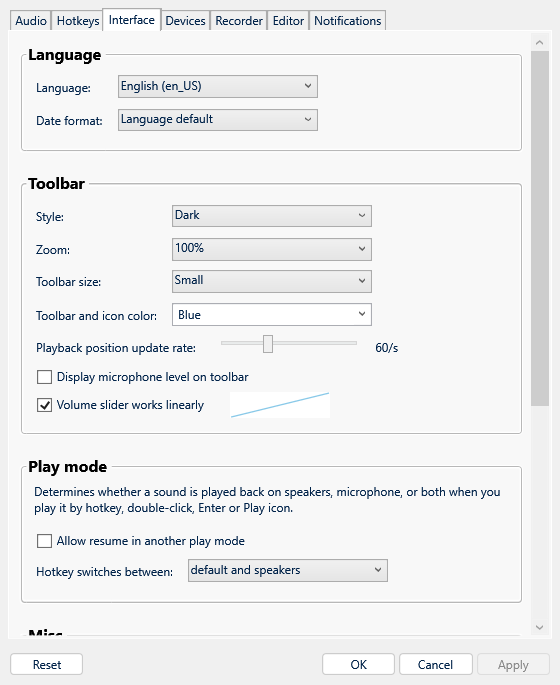
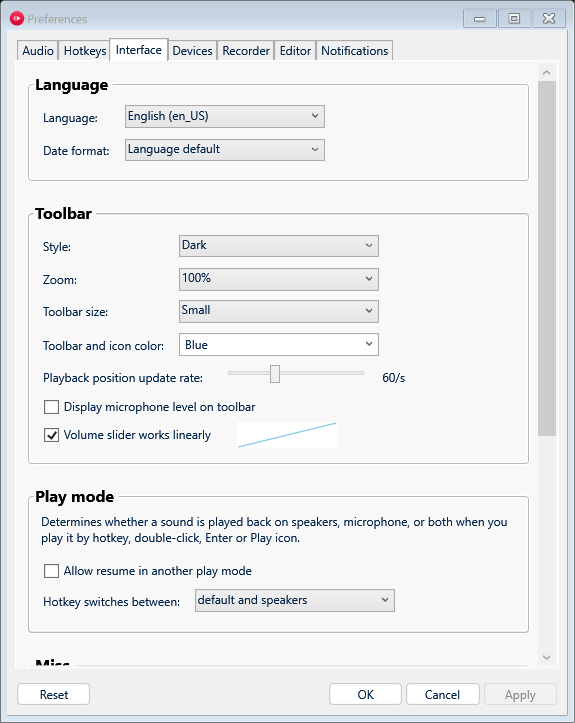
Refresh documentation screenshots with native window title bars

Changed region(s): [[0.0, 0.0, 1.0, 1.0], [0.6679, 0.4905, 0.6982, 0.5518]]

diff --git a/tools/screenshots/NativeWindowFrame.cs b/tools/screenshots/NativeWindowFrame.cs
@@ -1,0 +1,72 @@
+using System.ComponentModel;
+using System.IO;
+using System.Runtime.InteropServices;
+using System.Windows;
+using System.Windows.Media;
+using System.Windows.Media.Imaging;
+
+// Paint native chrome on a hidden HWND with the app window's caption/style.
+// Keeping this HWND separate avoids altering WPF layout while taking a picture.
+internal static class NativeWindowFrame
+{
+    [StructLayout(LayoutKind.Sequential)]private struct Rect {public int Left,Top,Right,Bottom;}
+    [StructLayout(LayoutKind.Sequential)]private struct Point {public int X,Y;}
+    [StructLayout(LayoutKind.Sequential)]private struct BitmapInfo
+    {
+        public uint Size;public int Width,Height;public ushort Planes,BitCount;
+        public uint Compression,ImageSize;public int XPelsPerMeter,YPelsPerMeter;public uint ColorsUsed,ColorsImportant;
+    }
+    internal sealed record Frame(BitmapSource Image,System.Windows.Rect Client);
+    [DllImport("user32.dll")]private static extern uint GetDpiForWindow(nint window);
+    [DllImport("user32.dll",CharSet=CharSet.Unicode,SetLastError=true)]private static extern nint CreateWindowEx(uint extendedStyle,string className,string title,uint style,int x,int y,int width,int height,nint parent,nint menu,nint instance,nint parameter);
+    [DllImport("user32.dll")]private static extern bool DestroyWindow(nint window);
+    [DllImport("user32.dll",CharSet=CharSet.Unicode)]private static extern nint LoadImage(nint instance,string name,uint type,int width,int height,uint flags);
+    [DllImport("user32.dll")]private static extern bool DestroyIcon(nint icon);
+    [DllImport("user32.dll",SetLastError=true)]private static extern bool AdjustWindowRectExForDpi(ref Rect rect,uint style,bool menu,uint extendedStyle,uint dpi);
+    [DllImport("user32.dll",SetLastError=true)]private static extern bool SetWindowPos(nint window,nint after,int x,int y,int width,int height,uint flags);
+    [DllImport("user32.dll")]private static extern bool GetWindowRect(nint window,out Rect rect);
+    [DllImport("user32.dll")]private static extern bool GetClientRect(nint window,out Rect rect);
+    [DllImport("user32.dll")]private static extern bool ClientToScreen(nint window,ref Point point);
+    [DllImport("user32.dll",CharSet=CharSet.Unicode)]private static extern nint SendMessage(nint window,uint message,nint parameter,nint flags);
+    [DllImport("gdi32.dll")]private static extern nint CreateCompatibleDC(nint dc);
+    [DllImport("gdi32.dll")]private static extern nint CreateDIBSection(nint dc,ref BitmapInfo info,uint usage,out nint pixels,nint section,uint offset);
+    [DllImport("gdi32.dll")]private static extern nint SelectObject(nint dc,nint item);
+    [DllImport("gdi32.dll")]private static extern bool DeleteObject(nint item);
+    [DllImport("gdi32.dll")]private static extern bool DeleteDC(nint dc);
+
+    internal static Frame Capture(Window window,double clientWidth,double clientHeight)
+    {
+        uint style=0x00C80000; // caption and system menu, never WS_VISIBLE
+        if(window.ResizeMode==ResizeMode.CanMinimize)style|=0x20000;
+        else if(window.ResizeMode is ResizeMode.CanResize or ResizeMode.CanResizeWithGrip)style|=0x70000;
+        uint extendedStyle=window.WindowStyle==WindowStyle.ToolWindow?0x80u:0;
+        nint handle=CreateWindowEx(extendedStyle,"STATIC",window.Title,style,-10000,-10000,100,100,0,0,0,0);
+        if(handle==0)throw new Win32Exception();
+        nint icon=0;
+        try{
+        uint dpi=GetDpiForWindow(handle);double scale=dpi/96d;
+        string iconPath=Path.Combine(AppContext.BaseDirectory,"assets","app-icon.ico");
+        if(File.Exists(iconPath)){icon=LoadImage(0,iconPath,1,(int)Math.Round(16*scale),(int)Math.Round(16*scale),0x10);if(icon!=0){SendMessage(handle,0x80,0,icon);SendMessage(handle,0x80,1,icon);}}
+        var requested=new Rect {Right=(int)Math.Round(clientWidth*scale),Bottom=(int)Math.Round(clientHeight*scale)};
+        if(!AdjustWindowRectExForDpi(ref requested,style,false,extendedStyle,dpi))throw new Win32Exception();
+        // NOZORDER | NOACTIVATE, deliberately without SHOWWINDOW.
+        if(!SetWindowPos(handle,0,-10000,-10000,requested.Right-requested.Left,requested.Bottom-requested.Top,0x14))throw new Win32Exception();
+        if(!GetWindowRect(handle,out var bounds)||!GetClientRect(handle,out var client))throw new Win32Exception();
+        var origin=new Point();if(!ClientToScreen(handle,ref origin))throw new Win32Exception();
+        int width=bounds.Right-bounds.Left,height=bounds.Bottom-bounds.Top;
+        nint dc=CreateCompatibleDC(0);if(dc==0)throw new Win32Exception();
+        var info=new BitmapInfo {Size=(uint)Marshal.SizeOf<BitmapInfo>(),Width=width,Height=-height,Planes=1,BitCount=32};
+        nint bitmap=CreateDIBSection(dc,ref info,0,out nint pixels,0,0);if(bitmap==0){DeleteDC(dc);throw new Win32Exception();}
+        nint previous=SelectObject(dc,bitmap);
+        try{
+            // WM_PRINT with PRF_NONCLIENT paints even a hidden window. Calling
+            // PrintWindow on an unshown DWM surface leaves its caption black.
+            SendMessage(handle,0x317,dc,2);
+            var bytes=new byte[checked(width*height*4)];Marshal.Copy(pixels,bytes,0,bytes.Length);
+            for(int index=3;index<bytes.Length;index+=4)bytes[index]=255;
+            var image=BitmapSource.Create(width,height,dpi,dpi,PixelFormats.Bgra32,null,bytes,width*4);image.Freeze();
+            return new(image,new((origin.X-bounds.Left)/scale,(origin.Y-bounds.Top)/scale,client.Right/scale,client.Bottom/scale));
+        }finally{SelectObject(dc,previous);DeleteObject(bitmap);DeleteDC(dc);}
+        }finally{DestroyWindow(handle);if(icon!=0)DestroyIcon(icon);}
+    }
+}

diff --git a/tools/screenshots/Program.cs b/tools/screenshots/Program.cs
@@ -29,9 +29,18 @@ internal static class Program
     {
         var content=(FrameworkElement)window.Content;content.Measure(new Size(width,height));content.Arrange(new Rect(0,0,width,height));content.UpdateLayout();
         await Dispatcher.Yield(DispatcherPriority.ContextIdle);content.Measure(new Size(width,height));content.Arrange(new Rect(0,0,width,height));content.UpdateLayout();
-        var drawing=new DrawingVisual();using(var paint=drawing.RenderOpen()){paint.DrawRectangle(window.Background,null,new Rect(0,0,width,height));}
-        var bitmap=new RenderTargetBitmap((int)width,(int)height,96,96,PixelFormats.Pbgra32);bitmap.Render(drawing);bitmap.Render(content);
+        var background=new DrawingVisual();using(var paint=background.RenderOpen()){paint.DrawRectangle(window.Background,null,new Rect(0,0,width,height));}
+        var client=new RenderTargetBitmap((int)width,(int)height,96,96,PixelFormats.Pbgra32);client.Render(background);client.Render(content);
+        var frame=NativeWindowFrame.Capture(window,width,height);
+        var drawing=new DrawingVisual();using(var paint=drawing.RenderOpen()){
+            paint.DrawImage(frame.Image,new Rect(0,0,frame.Image.Width,frame.Image.Height));
+            // Keep the content pixels aligned at 96 DPI instead of resampling
+            // them for fractional system-frame measurements at desktop DPI.
+            paint.DrawImage(client,new Rect(Math.Round(frame.Client.X),Math.Round(frame.Client.Y),width,height));
+        }
+        var bitmap=new RenderTargetBitmap((int)Math.Ceiling(frame.Image.Width),(int)Math.Ceiling(frame.Image.Height),96,96,PixelFormats.Pbgra32);bitmap.Render(drawing);
         var png=new PngBitmapEncoder();png.Frames.Add(BitmapFrame.Create(bitmap));using var output=File.Create(path);png.Save(output);Console.WriteLine("Captured "+path);
+        if(window.IsVisible||window.IsActive)throw new Exception("Screenshot rendering unexpectedly showed or activated a window.");
     }
     private static async Task Capture(string output)
     {
@@ -52,7 +61,7 @@ internal static class Program
                 if(i<6)library.Document.HotbarPins.Add(new(){SoundId=sound.Id,Page=0,Slot=i,Color=colors[i%4]});
             }
             foreach(var category in library.Document.Categories){category.IconColor=colors[Array.IndexOf(new[]{"Voice","Games","Reactions","Music"},category.Name)%4];}
-            Invoke(main,"RefreshLibrary");await Dispatcher.Yield(DispatcherPriority.Background);Field<DataGrid>(main,"SoundGrid").SelectedIndex=0;
+            library.Save(Path.Combine(state,"Demo library.json"));Invoke(main,"RefreshLibrary");await Dispatcher.Yield(DispatcherPriority.Background);Field<DataGrid>(main,"SoundGrid").SelectedIndex=0;
             await Save(main,Path.Combine(output,"main-window.png"),1020,660);
             Field<FrameworkElement>(main,"SearchPanel").Visibility=Visibility.Visible;
             await Save(main,Path.Combine(output,"search-panel.png"),1020,660);
@@ -82,7 +91,7 @@ internal static class Program
             }
             var editorType=typeof(MainWindow).Assembly.GetType("SoundboardLab.EditorWindow")!;
             var editor=(Window)Activator.CreateInstance(editorType,[library.Document.Entries[0].FilePath,new Func<string,Task>(_=>Task.CompletedTask),prefs.Settings])!;
-            try{await (Task)Invoke(editor,"LoadAsync")!;await Save(editor,Path.Combine(output,"sound-editor.png"),680,410);}finally{editor.Close();}
+            try{await (Task)Invoke(editor,"LoadAsync")!;editor.Title=@"Sound Editor - C:\Soundboard Lab\Sounds\Welcome back.wav";await Save(editor,Path.Combine(output,"sound-editor.png"),680,410);}finally{editor.Close();}
             if(main.IsVisible||main.IsActive)throw new Exception("Screenshot rendering unexpectedly showed a window.");
         }finally{if(main is not null){main.Close();await Dispatcher.Yield(DispatcherPriority.Background);}Directory.Delete(state,true);}
     }

diff --git a/VALIDATION.md b/VALIDATION.md
@@ -43,4 +43,4 @@ These are excluded from public CI. Device repair, live mode switching, voice cal
 
 ## Screenshots
 
-`tools/screenshots` renders actual controls with generated audio and a private temporary library. It does not show windows, take focus, send input, or play audio. Screenshots are retained in `docs/screenshots/` and embedded in the README.
+`tools/screenshots` renders actual controls with generated audio and a private temporary library. A separate hidden native window uses the app window's title, icon and resize style to paint its caption buttons and frame through Windows nonclient painting, then combines that with the WPF content. This keeps frame capture from changing the controls' layout. It does not show windows, take focus, send input, or play audio. Screenshots are retained in `docs/screenshots/` and embedded in the README.

diff --git a/README.md b/README.md
@@ -91,7 +91,7 @@ Forwarding starts **off** at every launch, saves no recording, and does not chan
 
 </details>
 
-Screenshots show the actual WPF controls with an isolated demo library of generated audio. Recreate them with `dotnet run --project tools/screenshots -- docs/screenshots`; the renderer does not show windows or send desktop input.
+Screenshots show the actual WPF controls with Windows-painted title bars and frames, using an isolated demo library of generated audio. Recreate them with `dotnet run --project tools/screenshots -- docs/screenshots`; the renderer does not show windows or send desktop input.
 
 ## Build from source
 

diff --git a/CHANGELOG.md b/CHANGELOG.md
@@ -6,6 +6,7 @@ use `v` followed by the app version; prereleases use a suffix such as `-rc.1`.
 
 ## [Unreleased]
 
+- Refresh the README screenshots with Windows-painted title bars, app icons, window controls and borders.
 - Build once per main push and publish preview and new numbered releases from the same tested artifact; tag pushes no longer trigger duplicate builds.
 ## [0.1.2] - 2026-10-17
 
